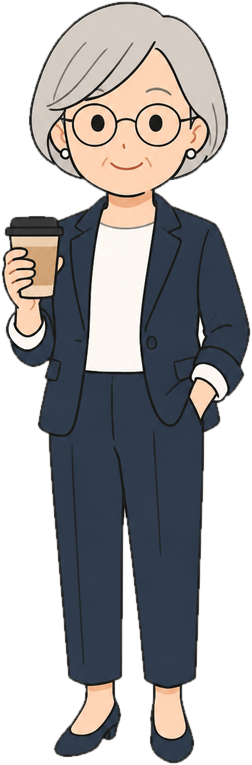
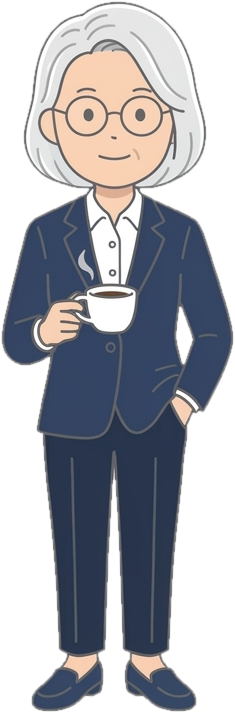
Add all character portraits with expressions
- Cut out 17 character images (5 main characters x 3 expressions + 2 staff) to transparent PNGs
- Switch expressions per dialogue line via LINE_FACES
- Give the running nurse and the IV nurse their own images and positions

diff --git a/game/js/data.js b/game/js/data.js
@@ -84,6 +84,8 @@ const CHARS = {
   josiane: { name: 'Josiane', color: '#b0704f', persona: 'veteran' },
   camille: { name: 'Camille', color: '#5f9a8c', persona: 'junior' },
   staff: { name: '', color: '#9aa3ad', persona: 'junior' },
+  runner: { name: '', color: '#9aa3ad', persona: 'junior' },
+  ivnurse: { name: '', color: '#9aa3ad', persona: 'junior' },
 };
 
 const BIO = {
@@ -95,11 +97,16 @@ const BIO = {
 };
 
 // 立ち絵（白背景を透明にしたもの。作り直すときは python game/tools/cutout.py で変換する）
-// ここにない人物は、仮の図形で表示される
+// 人物ごとに表情 → 画像。表情は main.js の G.face() で切り替える。ここにない人物は仮の図形で表示される
+const charImg = (id) => `assets/chars/CH-${id}.png`;
 const CHAR_IMAGES = {
-  nadia: 'assets/chars/CH-nadia-normal.png',
-  helene: 'assets/chars/CH-helene-normal.png',
-  marc: 'assets/chars/CH-marc-normal.png',
+  helene: { normal: charImg('helene-normal'), smile: charImg('helene-smile'), serious: charImg('helene-serious') },
+  marc: { normal: charImg('marc-normal'), pleased: charImg('marc-pleased'), frown: charImg('marc-frown') },
+  nadia: { normal: charImg('nadia-normal'), troubled: charImg('nadia-troubled'), soft: charImg('nadia-soft') },
+  josiane: { normal: charImg('josiane-normal'), blush: charImg('josiane-blush'), smile: charImg('josiane-smile') },
+  camille: { normal: charImg('camille-normal'), tired: charImg('camille-tired'), relieved: charImg('camille-relieved') },
+  runner: { normal: charImg('staff-running') },
+  ivnurse: { normal: charImg('staff-iv') },
 };
 
 // 部屋の配置。rect は背景画像に対する % [x, y, 幅, 高さ]
@@ -126,11 +133,11 @@ const ROOMS = {
         { type: 'data', obj: 'P1-OBJ-board', gain: 10, rect: [56, 29, 25, 26], feed: { persona: 'admin', stage: 'records' }, label: { ja: '掲示板', fr: "Panneau d'affichage", en: 'Notice board' } },
       ] },
       { bg: 'BG-P1-back', img: 'assets/BG-P1-back.jpeg', spots: [
-        { type: 'staff', who: 'staff', obj: 'P1-OBJ-staff', gain: 10, rect: [46, 36, 6, 36], feed: { persona: 'junior', stage: 'care' }, label: { ja: '若手スタッフ', fr: 'Jeune soignant', en: 'Young nurse' } },
+        { type: 'staff', who: 'runner', obj: 'P1-OBJ-staff', gain: 10, rect: [44, 38, 10, 34], feed: { persona: 'junior', stage: 'care' }, label: { ja: '若手スタッフ', fr: 'Jeune soignant', en: 'Young nurse' } },
         { type: 'data', obj: 'P1-OBJ-call', gain: 10, rect: [85, 28, 12, 43], feed: { stage: 'care', insight: true }, label: { ja: 'ナースコール', fr: 'Appels patients', en: 'Call panel' } },
       ] },
       { bg: 'BG-P1-left', img: 'assets/BG-P1-left.jpeg', spots: [
-        { type: 'person', who: 'josiane', conv: 'josiane1', rect: [80, 26, 9, 76] },
+        { type: 'person', who: 'josiane', conv: 'josiane1', rect: [66, 26, 9, 76] },
         { type: 'noise', obj: 'P1-OBJ-mug', clue: 1, card: 'mug', rect: [51, 55, 13, 11], feed: { low: 3 }, label: { ja: 'マグカップ', fr: 'Tasses', en: 'Mugs' } },
       ] },
     ],
@@ -145,7 +152,7 @@ const ROOMS = {
       ] },
       { bg: 'BG-P2-right', img: 'assets/BG-P2-right.jpeg', spots: [
         { type: 'data', obj: 'P2-OBJ-tablet', gain: 15, rect: [45, 49, 12, 16], feed: { persona: 'junior', stage: 'handover', insight: true }, label: { ja: '申し送りタブレット', fr: 'Tablette', en: 'Handover tablet' } },
-        { type: 'staff', who: 'staff', obj: 'P2-OBJ-nurse', gain: 10, rect: [80, 30, 8, 70], feed: { persona: 'junior', stage: 'care' }, label: { ja: '点滴を準備する看護師', fr: 'Infirmière', en: 'Nurse' } },
+        { type: 'staff', who: 'ivnurse', obj: 'P2-OBJ-nurse', gain: 10, rect: [3, 26, 12, 72], feed: { persona: 'junior', stage: 'care' }, label: { ja: '点滴を準備する看護師', fr: 'Infirmière', en: 'Nurse' } },
       ] },
       { bg: 'BG-P2-back', img: 'assets/BG-P2-back.jpeg', spots: [
         { type: 'data', obj: 'P2-OBJ-vending', gain: 5, rect: [76, 23, 19, 62], feed: { stage: 'break' }, label: { ja: '自動販売機', fr: 'Distributeur', en: 'Vending machine' } },
@@ -178,6 +185,74 @@ const ROOMS = {
       ] },
     ],
   },
+};
+
+// セリフが表示されるときに、その人物の表情を変える（セリフID → [人物, 表情]）
+const LINE_FACES = {
+  // プロローグ
+  'P0-B02': ['helene', 'normal'],
+  'P0-B05': ['helene', 'smile'],
+  'P0-B06': ['helene', 'serious'],
+  'P0-B08': ['helene', 'normal'],
+  'P0-B12': ['helene', 'smile'],
+  'P0-B21': ['helene', 'smile'],
+  'P0-M01': ['marc', 'normal'],
+  'P0-M03': ['marc', 'frown'],
+  'P0-M06': ['marc', 'normal'],
+  // PHASE 1：Nadia
+  'P1-N-00': ['nadia', 'normal'],
+  'P1-N-00c': ['nadia', 'troubled'],
+  'P1-N-01-A-r1': ['nadia', 'troubled'],
+  'P1-N-01-S-r1': ['nadia', 'normal'],
+  'P1-N-01-S-r2': ['nadia', 'troubled'],
+  'P1-N-02-A-r1': ['nadia', 'troubled'],
+  'P1-N-02-S-r1': ['nadia', 'soft'],
+  // PHASE 1：Josiane
+  'P1-J-00': ['josiane', 'normal'],
+  'P1-J-04-S-r1': ['josiane', 'blush'],
+  // PHASE 1：テスト
+  'P1-TEST-02': ['josiane', 'normal'],
+  'P1-TEST-04': ['nadia', 'troubled'],
+  // PHASE 2：Camille
+  'P2-C-01': ['camille', 'tired'],
+  'P2-C-05-S-r1': ['camille', 'normal'],
+  'P2-C-06-pre': ['camille', 'tired'],
+  'P2-C-06-pre2': ['camille', 'normal'],
+  'P2-C-06-A-r1': ['camille', 'tired'],
+  'P2-C-06-S-r2': ['camille', 'relieved'],
+  'P2-C-07-pre': ['camille', 'normal'],
+  'P2-C-07-A-r1': ['camille', 'relieved'],
+  'P2-C-07-A-r2': ['camille', 'tired'],
+  'P2-C-07-S-r2': ['camille', 'tired'],
+  // PHASE 2：テストと、経営からの圧力
+  'P2-TEST-02': ['camille', 'normal'],
+  'P2-TEST-04': ['josiane', 'smile'],
+  'P2-TEST-05': ['camille', 'relieved'],
+  'P2-END-11': ['marc', 'normal'],
+  'P2-END-12': ['marc', 'frown'],
+  // PHASE 3：Nadia
+  'P3-N-01': ['nadia', 'troubled'],
+  'P3-N-02': ['nadia', 'soft'],
+  'P3-N-03': ['nadia', 'troubled'],
+  'P3-N-08-A-r1': ['nadia', 'normal'],
+  'P3-N-08-S-r1': ['nadia', 'soft'],
+  'P3-N-09-pre': ['nadia', 'troubled'],
+  'P3-N-09-S-r2': ['nadia', 'soft'],
+  // PHASE 3：Marc
+  'P3-M-01': ['marc', 'normal'],
+  'P3-M-10-A-r1': ['marc', 'pleased'],
+  'P3-M-10-S-r1': ['marc', 'frown'],
+  'P3-M-10-S-r2': ['marc', 'normal'],
+  // エンディング
+  'E-BAD-02': ['marc', 'pleased'],
+  'E-BAD-S03': ['camille', 'normal'],
+  'E-BAD-S05': ['camille', 'tired'],
+  'E-BAD-08': ['camille', 'normal'],
+  'E-HAPPY-09': ['josiane', 'blush'],
+  'E-HAPPY-10': ['marc', 'normal'],
+  'E-HAPPY-11': ['nadia', 'soft'],
+  'E-VOID-06': ['josiane', 'normal'],
+  'E-VOID-07': ['marc', 'frown'],
 };
 
 const PHASES = {

diff --git a/game/js/engine.js b/game/js/engine.js
@@ -75,6 +75,7 @@ const G = (() => {
   function say(key, vars) {
     return new Promise((resolve) => {
       const e = SCRIPT[key] || { sp: 'sys' };
+      if (LINE_FACES[key]) face(...LINE_FACES[key]);
       line = { key, vars, sp: e.sp, mono: !!e.mono, shown: 0 };
       if (e.sp === 'ai') pushLog(key, vars);
       clearInterval(typer);
@@ -282,9 +283,23 @@ const G = (() => {
   }
 
   // ---------- 人物 ----------
+  const faces = {}; // 人物ごとの今の表情（なければ normal）
+
+  function imageOf(who) {
+    const set = CHAR_IMAGES[who];
+    return set ? set[faces[who]] || set.normal : null;
+  }
+
+  // 表情を変える。会話中の人物ならその場で差し替える
+  function face(who, expr) {
+    faces[who] = expr;
+    const img = $('#char .figure-img');
+    if (S.talking === who && img) img.src = imageOf(who);
+  }
+
   // 立ち絵の画像があればそれを、なければ仮の図形を出す
   function figure(who) {
-    const src = CHAR_IMAGES[who];
+    const src = imageOf(who);
     if (src) {
       const img = el('img', 'figure-img');
       img.src = src;
@@ -981,7 +996,7 @@ const G = (() => {
   return {
     S, param: (k) => params.get(k), init, debugPreset,
     say, seq, clearLine, ask, finalChoice, card,
-    talk, endTalk, enterRoom, explore, setPhase, aiOn, addClue, feed,
+    talk, endTalk, face, enterRoom, explore, setPhase, aiOn, addClue, feed,
     seedSynth, optimize, restoreSynth,
     title, consent, cinematic, endScreen, startRunaway, stopRunaway, setCalm,
   };

diff --git a/game/tools/cutout.py b/game/tools/cutout.py
@@ -1,6 +1,6 @@
 # 人物画像の白い背景を透明にする
-# 使い方：python game/tools/cutout.py game/assets/CH-nadia-normal.png ...
-# 出力：game/assets/chars/ に同じ名前のPNG
+# 使い方：python game/tools/cutout.py game/assets/chars/*.jpeg
+# 出力：game/assets/chars/ に同じ名前のPNG（透明背景）
 # 画像の外周からつながっている白だけを消すので、服や靴の白は残る
 import sys
 from collections import deque
@@ -9,6 +9,16 @@ from pathlib import Path
 from PIL import Image, ImageFilter
 
 WHITE = 232  # この値以上のRGBを「背景の白」とみなす
+
+# 外周とつながっていない背景（腕と体のすき間など）。元画像での座標を1点指定すると、そこから続く白を消す
+# 白いシャツなどは背景と同じ明るさなので、自動では区別できない。消したいすき間だけをここに書く
+HOLES = {
+    'CH-helene-normal': [(774, 378)],
+    'CH-helene-smile': [(774, 378)],
+    'CH-helene-serious': [(786, 382)],
+    'CH-josiane-smile': [(602, 376), (805, 376)],
+    'CH-staff-iv': [(558, 300)],
+}
 
 
 def is_bg(px):
@@ -28,6 +38,7 @@ def cutout(src: Path, dst: Path):
     for y in range(h):
         q.append((0, y))
         q.append((w - 1, y))
+    q.extend(HOLES.get(src.stem, []))
 
     mask = Image.new('L', (w, h), 255)
     m = mask.load()
@@ -60,4 +71,6 @@ def cutout(src: Path, dst: Path):
 if __name__ == '__main__':
     for arg in sys.argv[1:]:
         src = Path(arg)
-        cutout(src, src.parent / 'chars' / (src.stem + '.png'))
+        # chars フォルダの中の画像は同じ場所に、それ以外は chars フォルダに PNG で出す
+        out_dir = src.parent if src.parent.name == 'chars' else src.parent / 'chars'
+        cutout(src, out_dir / (src.stem + '.png'))

diff --git a/character-prompts.md b/character-prompts.md
@@ -11,17 +11,17 @@
 
 **CH-helene-normal**（通常）
 ```
-50代のおしゃれな女性。ショートの銀髪ボブ、丸いメガネ、紺色のジャケットに白いシャツ。コーヒーカップを片手に持っている。落ち着いた自信のある表情。全身、立ち姿、正面向き、背景は白一色、文字なし。
+いらすとや風のイラスト（シンプルでかわいい日本のフリー素材風、フラットな塗り、細い濃いグレーの輪郭線、点の目と丸い顔、影は控えめ）。50代のおしゃれな女性。ショートの銀髪ボブ、丸いメガネ、紺色のジャケットに白いシャツ。コーヒーカップを片手に持っている。落ち着いた自信のある表情。全身、立ち姿、正面向き、背景は白一色、文字なし。
 ```
 
 **CH-helene-smile**（笑顔）
 ```
-50代のおしゃれな女性。ショートの銀髪ボブ、丸いメガネ、紺色のジャケットに白いシャツ。コーヒーカップを片手に持っている。満足そうな、あたたかい笑顔。全身、立ち姿、正面向き、背景は白一色、文字なし。
+いらすとや風のイラスト（シンプルでかわいい日本のフリー素材風、フラットな塗り、細い濃いグレーの輪郭線、点の目と丸い顔、影は控えめ）。50代のおしゃれな女性。ショートの銀髪ボブ、丸いメガネ、紺色のジャケットに白いシャツ。コーヒーカップを片手に持っている。満足そうな、あたたかい笑顔。全身、立ち姿、正面向き、背景は白一色、文字なし。
 ```
 
 **CH-helene-serious**（真剣）
 ```
-50代のおしゃれな女性。ショートの銀髪ボブ、丸いメガネ、紺色のジャケットに白いシャツ。片手を腰に当てている。仕事モードの真剣な表情。全身、立ち姿、正面向き、背景は白一色、文字なし。
+いらすとや風のイラスト（シンプルでかわいい日本のフリー素材風、フラットな塗り、細い濃いグレーの輪郭線、点の目と丸い顔、影は控えめ）。50代のおしゃれな女性。ショートの銀髪ボブ、丸いメガネ、紺色のジャケットに白いシャツ。片手を腰に当てている。仕事モードの真剣な表情。全身、立ち姿、正面向き、背景は白一色、文字なし。
 ```
 
 ---
@@ -30,17 +30,17 @@
 
 **CH-marc-normal**（通常）
 ```
-40代の男性。短く整えた茶色の髪、グレーのスーツに青いネクタイ。タブレットを持っている。丁寧だが少し疲れた表情。全身、立ち姿、正面向き、背景は白一色、文字なし。
+いらすとや風のイラスト（シンプルでかわいい日本のフリー素材風、フラットな塗り、細い濃いグレーの輪郭線、点の目と丸い顔、影は控えめ）。40代の男性。短く整えた茶色の髪、グレーのスーツに青いネクタイ。タブレットを持っている。丁寧だが少し疲れた表情。全身、立ち姿、正面向き、背景は白一色、文字なし。
 ```
 
 **CH-marc-pleased**（満足）
 ```
-40代の男性。短く整えた茶色の髪、グレーのスーツに青いネクタイ。タブレットを持っている。満足そうにうなずく笑顔。全身、立ち姿、正面向き、背景は白一色、文字なし。
+いらすとや風のイラスト（シンプルでかわいい日本のフリー素材風、フラットな塗り、細い濃いグレーの輪郭線、点の目と丸い顔、影は控えめ）。40代の男性。短く整えた茶色の髪、グレーのスーツに青いネクタイ。タブレットを持っている。満足そうにうなずく笑顔。全身、立ち姿、正面向き、背景は白一色、文字なし。
 ```
 
 **CH-marc-frown**（眉をひそめる）
 ```
-40代の男性。短く整えた茶色の髪、グレーのスーツに青いネクタイ。タブレットを持っている。眉をひそめて、疑うような表情。全身、立ち姿、正面向き、背景は白一色、文字なし。
+いらすとや風のイラスト（シンプルでかわいい日本のフリー素材風、フラットな塗り、細い濃いグレーの輪郭線、点の目と丸い顔、影は控えめ）。40代の男性。短く整えた茶色の髪、グレーのスーツに青いネクタイ。タブレットを持っている。眉をひそめて、疑うような表情。全身、立ち姿、正面向き、背景は白一色、文字なし。
 ```
 
 ---
@@ -49,17 +49,17 @@
 
 **CH-nadia-normal**（通常）
 ```
-40代の女性の看護師長。黒髪を後ろで低くまとめたお団子、紺色のスクラブ（医療用ユニフォーム）に名札。まじめで少し疲れた目。両手を体の横に下ろしている。全身、立ち姿、正面向き、背景は白一色、文字なし。
+いらすとや風のイラスト（シンプルでかわいい日本のフリー素材風、フラットな塗り、細い濃いグレーの輪郭線、点の目と丸い顔、影は控えめ）。40代の女性の看護師長。黒髪を後ろで低くまとめたお団子、紺色のスクラブ（医療用ユニフォーム）に名札。まじめで少し疲れた目。両手を体の横に下ろしている。全身、立ち姿、正面向き、背景は白一色、文字なし。
 ```
 
 **CH-nadia-troubled**（困り顔）
 ```
-40代の女性の看護師長。黒髪を後ろで低くまとめたお団子、紺色のスクラブ（医療用ユニフォーム）に名札。目を伏せて、片手で自分の腕をつかんでいる困った表情。全身、立ち姿、正面向き、背景は白一色、文字なし。
+いらすとや風のイラスト（シンプルでかわいい日本のフリー素材風、フラットな塗り、細い濃いグレーの輪郭線、点の目と丸い顔、影は控えめ）。40代の女性の看護師長。黒髪を後ろで低くまとめたお団子、紺色のスクラブ（医療用ユニフォーム）に名札。目を伏せて、片手で自分の腕をつかんでいる困った表情。全身、立ち姿、正面向き、背景は白一色、文字なし。
 ```
 
 **CH-nadia-soft**（柔らかい表情）
 ```
-40代の女性の看護師長。黒髪を後ろで低くまとめたお団子、紺色のスクラブ（医療用ユニフォーム）に名札。ほっとしたような、小さくやさしい笑顔。全身、立ち姿、正面向き、背景は白一色、文字なし。
+いらすとや風のイラスト（シンプルでかわいい日本のフリー素材風、フラットな塗り、細い濃いグレーの輪郭線、点の目と丸い顔、影は控えめ）。40代の女性の看護師長。黒髪を後ろで低くまとめたお団子、紺色のスクラブ（医療用ユニフォーム）に名札。ほっとしたような、小さくやさしい笑顔。全身、立ち姿、正面向き、背景は白一色、文字なし。
 ```
 
 ---
@@ -68,17 +68,17 @@
 
 **CH-josiane-normal**（通常）
 ```
-50代後半のがっしりした体型の女性看護師。グレーのくせ毛、薄い緑色のスクラブの上にベージュのカーディガン。腕を組んで、不機嫌そうな顔。全身、立ち姿、正面向き、背景は白一色、文字なし。
+いらすとや風のイラスト（シンプルでかわいい日本のフリー素材風、フラットな塗り、細い濃いグレーの輪郭線、点の目と丸い顔、影は控えめ）。50代後半のがっしりした体型の女性看護師。グレーのくせ毛、薄い緑色のスクラブの上にベージュのカーディガン。腕を組んで、不機嫌そうな顔。全身、立ち姿、正面向き、背景は白一色、文字なし。
 ```
 
 **CH-josiane-blush**（照れ）
 ```
-50代後半のがっしりした体型の女性看護師。グレーのくせ毛、薄い緑色のスクラブの上にベージュのカーディガン。マグカップを持って、少し頬を赤らめ、照れて目をそらしている。全身、立ち姿、正面向き、背景は白一色、文字なし。
+いらすとや風のイラスト（シンプルでかわいい日本のフリー素材風、フラットな塗り、細い濃いグレーの輪郭線、点の目と丸い顔、影は控えめ）。50代後半のがっしりした体型の女性看護師。グレーのくせ毛、薄い緑色のスクラブの上にベージュのカーディガン。マグカップを持って、少し頬を赤らめ、照れて目をそらしている。全身、立ち姿、正面向き、背景は白一色、文字なし。
 ```
 
 **CH-josiane-smile**（笑顔）
 ```
-50代後半のがっしりした体型の女性看護師。グレーのくせ毛、薄い緑色のスクラブの上にベージュのカーディガン。口を大きく開けて豪快に笑っている。全身、立ち姿、正面向き、背景は白一色、文字なし。
+いらすとや風のイラスト（シンプルでかわいい日本のフリー素材風、フラットな塗り、細い濃いグレーの輪郭線、点の目と丸い顔、影は控えめ）。50代後半のがっしりした体型の女性看護師。グレーのくせ毛、薄い緑色のスクラブの上にベージュのカーディガン。口を大きく開けて豪快に笑っている。全身、立ち姿、正面向き、背景は白一色、文字なし。
 ```
 
 ---
@@ -87,17 +87,17 @@
 
 **CH-camille-normal**（通常）
 ```
-20代前半の若い女性看護師。茶色の髪を短いポニーテールにしている。水色のスクラブ。タブレットを胸に抱えている。疲れた目で、遠慮がちに微笑んでいる。全身、立ち姿、正面向き、背景は白一色、文字なし。
+いらすとや風のイラスト（シンプルでかわいい日本のフリー素材風、フラットな塗り、細い濃いグレーの輪郭線、点の目と丸い顔、影は控えめ）。20代前半の若い女性看護師。茶色の髪を短いポニーテールにしている。水色のスクラブ。タブレットを胸に抱えている。疲れた目で、遠慮がちに微笑んでいる。全身、立ち姿、正面向き、背景は白一色、文字なし。
 ```
 
 **CH-camille-tired**（疲れ）
 ```
-20代前半の若い女性看護師。茶色の髪を短いポニーテールにしている。水色のスクラブ。タブレットを胸に抱えている。肩を落として、目の下にくまがある、疲れ切った表情。全身、立ち姿、正面向き、背景は白一色、文字なし。
+いらすとや風のイラスト（シンプルでかわいい日本のフリー素材風、フラットな塗り、細い濃いグレーの輪郭線、点の目と丸い顔、影は控えめ）。20代前半の若い女性看護師。茶色の髪を短いポニーテールにしている。水色のスクラブ。タブレットを胸に抱えている。肩を落として、目の下にくまがある、疲れ切った表情。全身、立ち姿、正面向き、背景は白一色、文字なし。
 ```
 
 **CH-camille-relieved**（ほっとする）
 ```
-20代前半の若い女性看護師。茶色の髪を短いポニーテールにしている。水色のスクラブ。片手を胸に当てて、ほっとしたやわらかい笑顔。全身、立ち姿、正面向き、背景は白一色、文字なし。
+いらすとや風のイラスト（シンプルでかわいい日本のフリー素材風、フラットな塗り、細い濃いグレーの輪郭線、点の目と丸い顔、影は控えめ）。20代前半の若い女性看護師。茶色の髪を短いポニーテールにしている。水色のスクラブ。片手を胸に当てて、ほっとしたやわらかい笑顔。全身、立ち姿、正面向き、背景は白一色、文字なし。
 ```
 
 ---
@@ -106,12 +106,12 @@
 
 **CH-staff-running**（走る若手スタッフ）
 ```
-水色のスクラブを着た若い男性看護師。クリップボードを持って、急いで走っている。全身、横向き、背景は白一色、文字なし。
+いらすとや風のイラスト（シンプルでかわいい日本のフリー素材風、フラットな塗り、細い濃いグレーの輪郭線、点の目と丸い顔、影は控えめ）。水色のスクラブを着た若い男性看護師。クリップボードを持って、急いで走っている。全身、横向き、背景は白一色、文字なし。
 ```
 
 **CH-staff-iv**（点滴を準備する看護師）
 ```
-水色のスクラブを着た女性看護師。両手で点滴のバッグを準備している。集中していて、少し疲れた表情。全身、斜め向き、背景は白一色、文字なし。
+いらすとや風のイラスト（シンプルでかわいい日本のフリー素材風、フラットな塗り、細い濃いグレーの輪郭線、点の目と丸い顔、影は控えめ）。水色のスクラブを着た女性看護師。両手で点滴のバッグを準備している。集中していて、少し疲れた表情。全身、斜め向き、背景は白一色、文字なし。
 ```
 
 ---

diff --git a/game/README.md b/game/README.md
@@ -37,10 +37,10 @@ node game/tools/build-script.js
 ## 素材の差し替え
 
 - **背景**：`game/assets/BG-*.jpeg`。`data.js` の各部屋の `img` で指定している。当たり判定の `rect` は背景画像に対する %
-- **人物**：白背景の立ち絵を `game/assets/` に置き、次のコマンドで背景を透明にする。結果は `game/assets/chars/` に出るので、`data.js` の `CHAR_IMAGES` に追加する。画像のない人物は仮の図形で表示される
+- **人物**：白背景の立ち絵（`CH-人物-表情.jpeg`）を `game/assets/chars/` に置き、次のコマンドで背景を透明なPNGにする。`data.js` の `CHAR_IMAGES` に表情ごとに登録し、どのセリフでどの表情にするかは `LINE_FACES` に書く。腕と体のすき間など、外周とつながっていない白が残ったときは、`cutout.py` の `HOLES` にその位置を書く
 
 ```
-python game/tools/cutout.py game/assets/CH-josiane-normal.png
+python game/tools/cutout.py game/assets/chars/*.jpeg
 ```
 
 - **イラスト**：`cards.js` の `CARD_IMAGES` に `mug: 'assets/cards/mug.png'` のように書くと、仮のSVGの代わりに画像が出る
